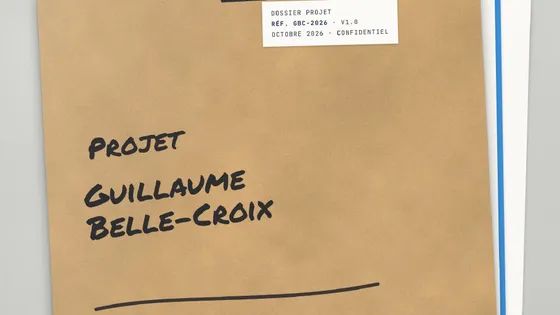
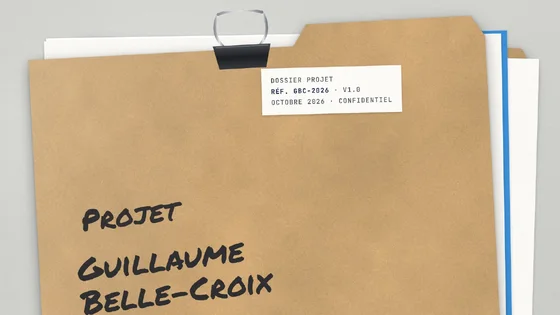
Tuile Dossier recadrée sur le haut de la couverture
Claude-Session: https://claude.ai/code/session_012wzja54trYe7YAVCXgccqo

diff --git a/index.html b/index.html
@@ -228,7 +228,7 @@ img.ph{width:100%;object-fit:cover;display:block}
     <h2>Continuer</h2>
     <div class="tiles">
       <button class="tile" type="button" id="tile-cv" style="background-image:url(img/t_cv.webp)"><span class="bdg">3D</span><span class="t"><b>CV immersif</b></span></button>
-      <div class="tile pdf" style="background-image:url(img/t_dossier.webp);background-position:center top"><a class="cover" href="cv/CV_Guillaume_Belle-Croix_dossier.pdf?v=2" target="_blank" rel="noopener" aria-label="Voir le dossier"></a>
+      <div class="tile pdf" style="background-image:url(img/t_dossier.webp?v=2);background-position:center top"><a class="cover" href="cv/CV_Guillaume_Belle-Croix_dossier.pdf?v=2" target="_blank" rel="noopener" aria-label="Voir le dossier"></a>
         <span class="t"><b>Dossier</b><small>PDF · 7 pages</small></span>
         <span class="acts"><a href="cv/CV_Guillaume_Belle-Croix_dossier.pdf?v=2" target="_blank" rel="noopener">Voir</a><a href="cv/CV_Guillaume_Belle-Croix_dossier.pdf?v=2" download="CV_Guillaume_Belle-Croix_dossier.pdf" aria-label="Télécharger le dossier">↓</a></span></div>
       <div class="tile pdf" style="background-image:url(img/t_fiche.webp);background-position:center top"><a class="cover" href="cv/CV_Guillaume_Belle-Croix_1page.pdf?v=4" target="_blank" rel="noopener" aria-label="Voir le CV 1 page"></a>
